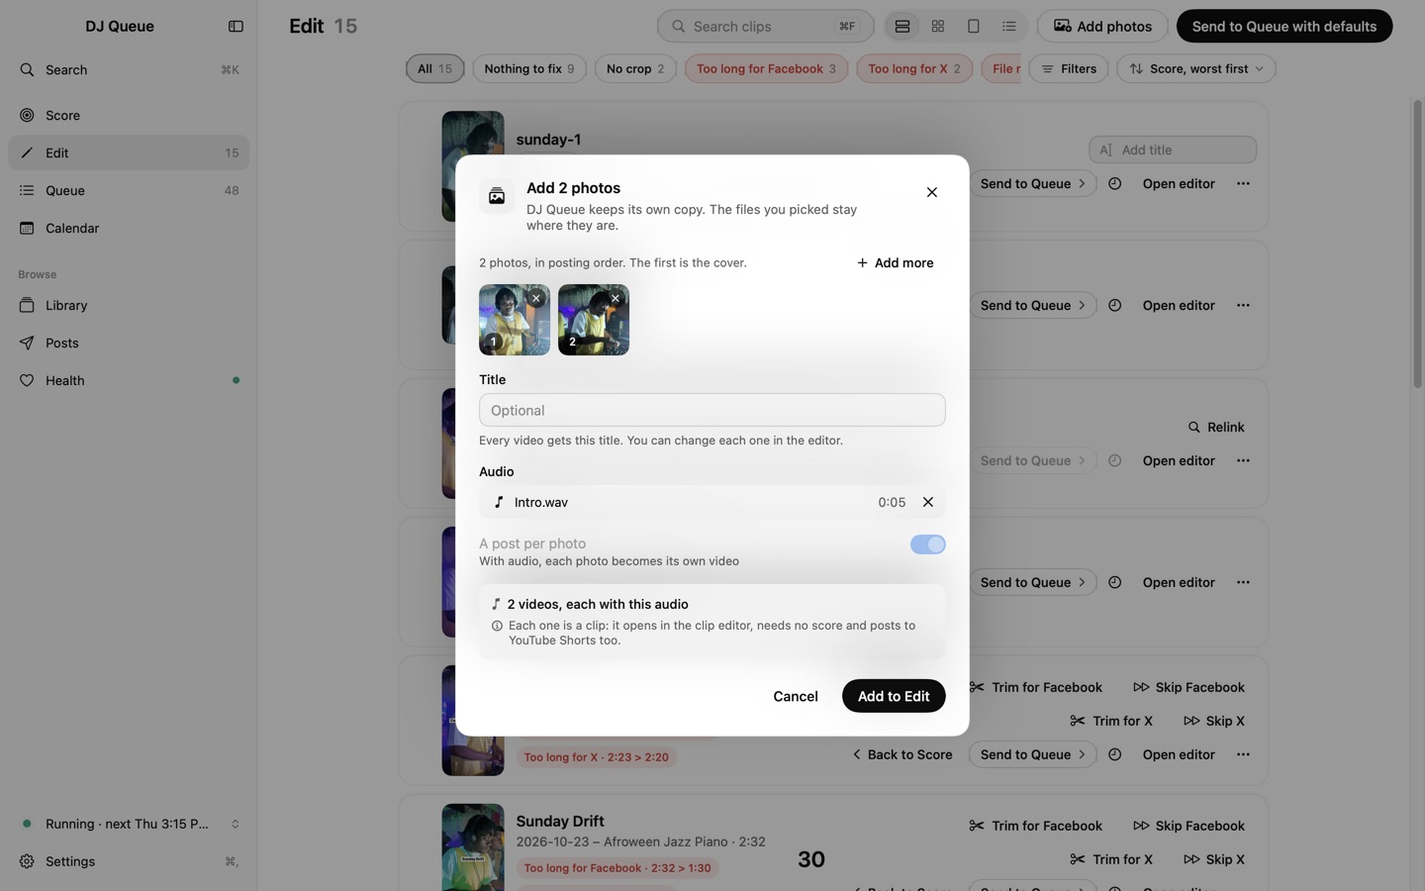
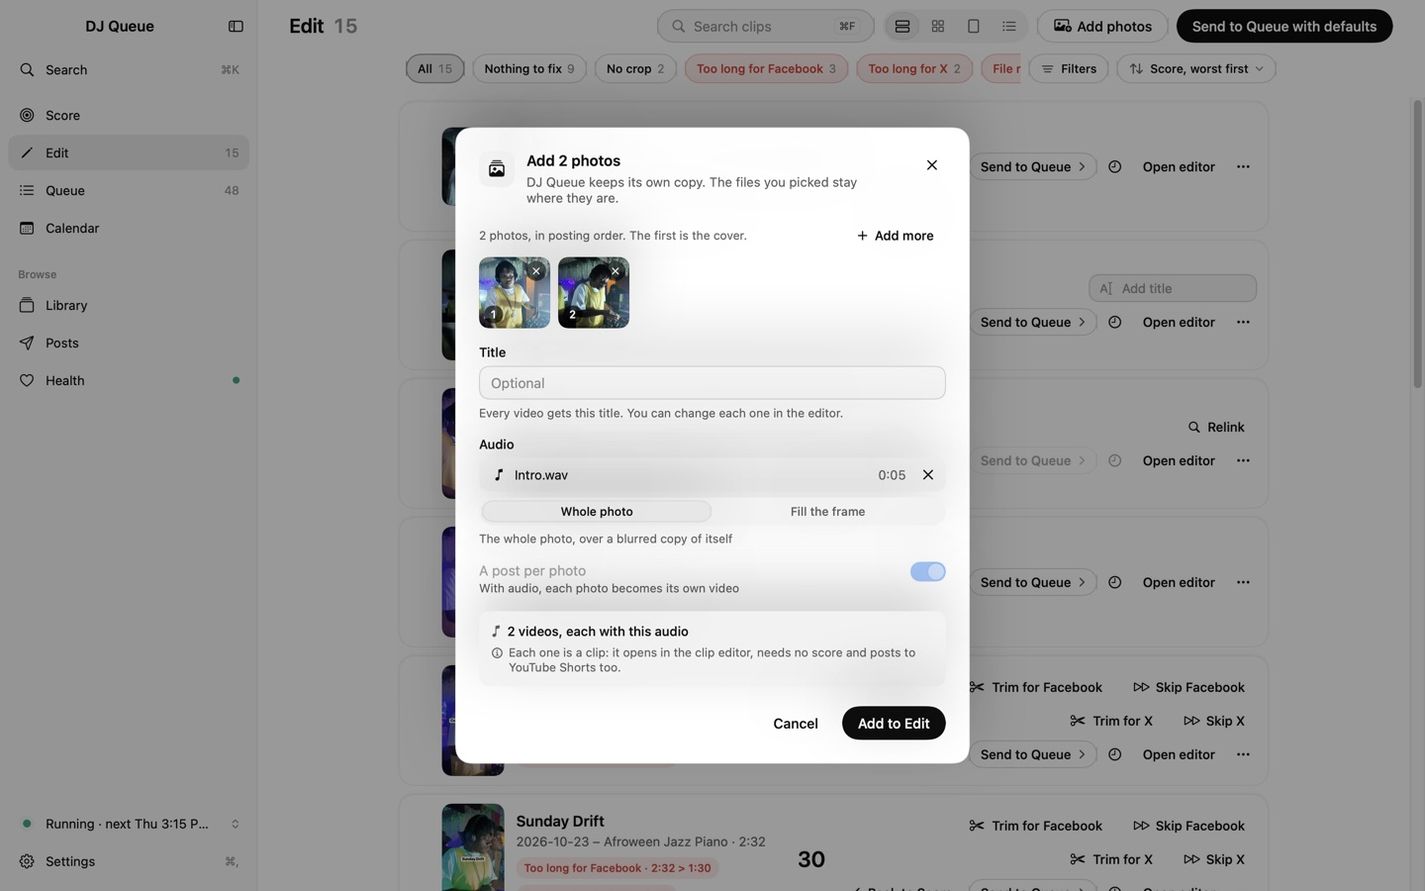
Round 23 docs, round 2: D12 and the review's changes in DECISIONS, ARCHITECTURE and the agent skill; README in version order with the fit switch and a whole-photo frame

diff --git a/ARCHITECTURE.md b/ARCHITECTURE.md
@@ -380,21 +380,32 @@ render that was replaced while its photos went up. The pure `PostizPayload.spec(
 Decisions: `DECISIONS-R23.md` (D1–D11 and "Decisions made while building"). Code: `DJQCore/StillVideo.swift`, `djq/PhotoCommand.swift`,
 `App/AppModel+PhotoAudio.swift`, `Editor/EditorAudioRow.swift`; tests `R23*.swift`; live check `photo-audio` (`Snapshot/PhotoAudioScript.swift`).
 
-**Model (schema 10).** One nullable column, `videos.still` (JSON `StillSource {photo, audio, audioName, audioDuration}`). A made video is a
+**Model (schema 10).** One nullable column, `videos.still` (JSON `StillSource {photo, audio, audioName, audioDuration, fit?}`; `fit` is
+`whole` or `fill`, and a row without it reads as `fill`). A made video is a
 `Video` with `still` set (`isStill`) and `photos` nil: `file` = `Stills/<id>/video.mp4`, `duration` = the audio's length, `start` 0, `end` =
 duration, fingerprint and size from the made file, source size = the video's pixels. It stays in the Photos session (`Session.photosId`,
 `inManifest` false), so `Store.fileURL(for:)`, renders and `Paths.owns` resolve under `Paths.photos`. `migrateToV10` follows `migrateToV9`.
 
-**Files.** `Photos/Stills/<video id>/video.mp4` and DJ Queue's copy of the audio, `audio.<ext>`. A later Change audio writes `video-2.mp4` /
-`audio-2.<ext>` beside them and nothing is ever written over or deleted, so the undo of any audio change only points the row back at files
-that are still there (the same idea as a removed photo's copy staying in Originals). The picked files are only read.
+**Files.** `Photos/Stills/<video id>/video.mp4` and DJ Queue's copy of the audio, `audio.m4a`: the AAC the video holds, never the picked file
+(the sound of an MP4 costs no more than a song). A later Change audio writes `video-2.mp4` / `audio-2.m4a` beside them, a fit change
+`video-3.mp4` only, and nothing is ever written over or deleted, so the undo of any audio change only points the row back at files that
+are still there (the same idea as a removed photo's copy staying in Originals). The picked files are only read. Leftovers of a make that
+was cut short (`work/still-*`, dot-files in `Stills/<id>/`) are swept by `checkFiles` once a day old.
+
+**Fit (D12).** `StillVideo.layout(width:height:fit:)`: `fill` is the photo's own shape (`frameSize`); `whole` is a 9:16 frame, 2160×3840 or
+smaller so the photo isn't enlarged (a multiple of 18 wide), with the photo fitted inside. The background is drawn once in the same ffmpeg
+graph, before the frame is repeated: the photo scaled to cover, cropped, `gblur` (sigma 40 at 2160 wide), darkened to 65 %, the photo
+overlaid centred. A photo within 1 % of 9:16 is made the same way for both. A `whole` video's crop is the whole frame: stored at make
+time, and `EditResolver` gives the same (confirmed) when the override is cleared, so `noCrop` is never raised and the renderer always has a
+crop. `setFit` makes the video again from the item's audio copy (`prepared(from:)`, a stream copy) and resets the crop; journal action
+`photo-audio-fit`.
 
 **Making it (`StillVideo.make`).** Three ffmpeg steps, each with a timeout: the audio's first stream to AAC 256 kbps 48 kHz stereo in the work
 folder (its measured length is the video's length, since a header's can be an estimate); the photo, upright through ImageIO, at its own
 shape inside 3840×2160 (2160×3840 for a tall or square photo, never enlarged, even pixels), as ONE keyframe interval of 30 fps H.264
 (5 s: a keyframe at quantiser 18 and 149 frames that code nothing), sRGB values through the BT.709 matrix, limited range, tagged BT.709;
 then that interval repeated under the audio with `-stream_loop` and `-c copy`, cut at the audio's end. Nothing is encoded twice, so 3
-minutes take about 3 s and 20 minutes 13 s (most of it reading the audio); a 3-minute 4K video is about 25 MB with its audio (20 minutes: about 170 MB). It is probed (codec, size,
+minutes take about 3 s and 20 minutes 13 to 40 s depending on the audio file (reading it is most of the time); a 3-minute 4K video is about 25 MB with its audio (20 minutes: about 170 MB). It is probed (codec, size,
 30 fps, audio, length within 0.05 s) before both files move into place; a failure leaves nothing. Refusals read as sentences: not there,
 a folder, not a format taken, unreadable, no sound, over 20 minutes, under a second, no ffmpeg.
 
@@ -416,19 +427,26 @@ for any length, where decoding 20 minutes of 4K took 104 s), and falls back to t
 **Add, change, remove.** Each makes its file outside any transaction, then writes the row, edit and versions in one journal entry
 (`photo-audio-add`, `-change`, `-remove`), re-checking the row first. `ClipSnap.still` (a `StillSnap`: the source and the row's media
 fields) is set only for a made video, so every other journal compares and restores as before; `restoreStill` turns the row back either
-way. `StillVideo.blocker` is D3 and D9 in one place (one photo; in Edit, no plan slot, no post); the undo of an audio batch is refused
-under a day or a post, force or not.
+way. `StillVideo.blocker` is D3 and D9 in one place (one photo; in Edit, no plan slot, no post). `stillUndoLock(restoring:current:)` refuses
+any restore that would change what the item is (photo post or video, another audio, another fit) under a day or a post, force or not,
+whatever batch it comes from.
 
 **API the UI calls.**
 - `StillVideo(store:).addAudio(to:audio:journal:progress:) -> Change{video, batchId}`: a one-photo post becomes a video in place (D2).
-- `changeAudio(videoId:audio:journal:progress:)`, `removeAudio(videoId:journal:)`: D5/D9. `blocker(_ v:) -> String?`: why not, for a control's off state.
-- `add(photos:audio:title:titleSource:progress:) -> AddResult{videos, skipped}`: the import sheet and `djq photo add --audio`; the audio is read once.
+- `changeAudio(videoId:audio:fit:journal:progress:)`, `setFit(videoId:fit:journal:progress:)`, `removeAudio(videoId:journal:)`: D9, D12.
+  `blocker(_ v:) -> String?`: why not, for a control's off state. `addAudio(…fit:)` defaults to `whole`.
+- `add(photos:audio:title:titleSource:fit:progress:) -> AddResult{videos, skipped, failed}`: the import sheet and `djq photo add --audio`; the
+  audio is read once, and it never throws once that is done (`failed`: photos worth trying again).
 - `StillVideo.audioSeconds(_:)` (throws the refusal), `refusal(audio:)`, `audioExtensions`, `label`, `addHint`, `carouselReason`, `lockedReason`.
-- `Video.isStill`, `still`, `needsNoScore`, `markLabel`; `AgentAPI.VideoSummary.still {audio_name, audio_seconds, photo}` (`media` stays "video").
+- `Video.isStill`, `still`, `needsNoScore`, `markLabel`; `AgentAPI.VideoSummary.still {audio_name, audio_seconds, photo, fit}` (`media` stays "video").
+- `StillVideo.layout`, `fitHint`, `sizeRefusal` (a photo under 200 px on its short side), `isAudioAction`.
 
 **Screens.** `AppModel+PhotoAudio.swift`: `askAddAudio` / `askChangeAudio` / `askImportAudio` open the system picker and end in `addAudio(to:audio:)`,
 `changeAudio(videoId:audio:)`, `removeAudio(videoId:)` or `importPhotos(urls:audio:title:)`, which run Core off the main thread, count up in a
 toast (`PhotoAudioUI`), journal into the app's undo history and reload an editor open on the item (`reloadOpenEditor`: it carries on as
-the clip editor, or the photo editor after Remove). `EditorAudioRow` sits under Kind in the Title section of both editors; `EditorMakingVideo`
-covers the editor while its item's video is made. Cards say "Photo + audio · 0:12" where a clip names its night. Menus: `AudioMenuItems`.
+the clip editor, or the photo editor after Remove; what it holds is dropped, not written, when the item landed as something else).
+`setAudioFit(videoId:fit:)` is the same path for the fit. `EditorAudioRow` sits under Kind in the Title section of both editors, with
+Whole photo | Fill the frame under the audio's name; `EditorMakingVideo` covers the editor while its item's video is made, the editor counts
+as covered for keys, and the item's stage controls are off (`stageBlocker`). The row's off state comes from `EditorModel.audioBlocker`,
+read with the item off the main thread; menus use `AppModel.audioBlocker`, which reads only loaded data. Cards say "Photo + audio · 0:12" where a clip names its night. Menus: `AudioMenuItems`.
 

diff --git a/README.md b/README.md
@@ -44,17 +44,19 @@ Recorded off screen from the app's own click-through checks: each frame is a rea
 | **Photos in Edit** — a Photo or Carousel mark where clips show their kind, and no score | **Preview equals export** — the editor canvas (left) beside the posted JPEG (right) |
 | ![Photo posts in the Edit list](docs/media/photos-in-edit.jpg) | ![Editor canvas beside the exported JPEG](docs/media/photo-preview-export.jpg) |
 
-**Photo with audio (v0.17.0).** Pick a photo and an audio file and DJ Queue makes a video of that photo, as long as the audio. From then on it is a clip: the clip editor (9:16 crop, trim, timed texts, cover, captions), the Queue with no score, the same loudness as every clip, and every platform a video posts to, YouTube Shorts included. Add audio from a photo post's editor or its ⋯ menu, or choose it in the import sheet and every photo becomes its own video. Change the audio or take it off again while nothing of it is scheduled; each step has Undo. The photo and the audio you picked are only read.
-
-| The Audio row — add audio and the editor carries on as the clip editor; change it or take it off again | Photos with audio in one go — each photo becomes its own video |
-|---|---|
-| ![The editor's Audio row: none, making the video, the audio's name and length, then changed and removed](docs/media/photo-audio.gif) | ![The import sheet with an audio file chosen for two photos](docs/media/photo-audio-import.jpg) |
-
 **Failed posts heal themselves (v0.16.0).** A post that fails goes back through the queue by itself until it's out: an hour later, six hours later, then the platform's next open slot each day, with freshly uploaded media and no limit on tries. YouTube's upload quota resets at midnight Pacific, so its retries go to the next YouTube slot after that. While it waits you see one calm *Retrying Thu 8:00 am* chip and nothing to do. Only what the app can't fix asks for you: a copyright or policy block, a file a platform won't take, or a channel whose Postiz sign-in broke, which is one *Reconnect* item per channel while its posts wait and then go out on their own. *Post now* on a Postiz platform now sends it through Postiz.
 
 | Retrying is a quiet chip, never a red error | One item per channel that needs signing in again |
 |---|---|
 | ![Posts list and inspector with a retrying post](docs/media/self-healing.gif) | ![Reconnect Threads in Postiz, posts wait](docs/media/self-healing-signin.jpg) |
+
+**Photo with audio (v0.17.0).** Pick a photo and an audio file and DJ Queue makes a video of that photo, as long as the audio. The whole photo shows by default, in a 9:16 video over a blurred copy of itself, so a flyer or a square photo loses nothing; Fill the frame crops it like a clip instead. From then on it is a clip: the clip editor (trim, timed texts, cover, captions), the Queue with no score, the same loudness as every clip, and every platform a video posts to, YouTube Shorts included. Add audio from a photo post's editor or its ⋯ menu, or choose it in the import sheet and every photo becomes its own video. Change the audio or take it off again while nothing of it is scheduled; each step has Undo. The photo and the audio you picked are only read.
+
+| The Audio row — add audio and the editor carries on as the clip editor; change it or take it off again | Photos with audio in one go — each photo becomes its own video |
+|---|---|
+| ![The editor's Audio row: none, making the video, the audio's name and length, then changed and removed](docs/media/photo-audio.gif) | ![The import sheet with an audio file chosen for two photos](docs/media/photo-audio-import.jpg) |
+| **Whole photo or Fill the frame** — one switch under the audio; Fill asks for the crop, Whole has nothing to fix | **The post** — the whole photo over a blurred copy of itself, with a timed text |
+| ![Switching between Whole photo and Fill the frame in the editor](docs/media/photo-audio-fit.gif) | ![A frame of the rendered post: the whole photo across the middle of a 9:16 video](docs/media/photo-audio-whole.jpg) |
 
 ## What it does
 
@@ -65,7 +67,7 @@ The app follows a clip's life — **Score → Edit → Queue → Calendar** — 
 - **Search everything** — ⌘K finds clips (by caption, overlay text, hashtags, notes and file name too), posts, weeks ("12 nov"), sessions, every setting and every action from anywhere in the app, literally and without guessing. ⌘F stays a filter for the list on screen.
 - **Keyboard-first editor** — Space plays or pauses even right after typing (a click on the picture or Esc lets go of the field), ← / → jump by a step you choose (2 s by default, ⇧ for one frame) with a try-it strip in Settings, and ↑ / ↓ move to the previous or next clip.
 - **Photo posts** — add one photo or a carousel (JPEG, PNG, HEIC, WebP, TIFF; the app keeps its own copy and never touches the original). The same editor opens in a photo mode: a shape for the post (4:5 by default), a crop per photo, the same texts and looks shown on the photos you choose, captions, templates and hashtag groups, with the canvas drawn by the code that makes the posted JPEGs. Photos need no score.
-- **Photo with audio** — one photo plus an audio file (MP3, M4A, WAV, AIFF, FLAC, or the sound of a video; up to 20 minutes) becomes a real video file in a few seconds, at the photo's own shape inside a 4K frame. It then behaves as a clip everywhere, marked "Photo + audio", needs no score, and asks for a title before it goes to YouTube. `djq photo add <photo> --audio <file>` does the same from the command line.
+- **Photo with audio** — one photo plus an audio file (MP3, M4A, WAV, AIFF, FLAC, or the sound of a video; up to 20 minutes) becomes a real video file in a few seconds: the whole photo in a 9:16 frame over a blurred copy of itself, or filling the frame with your own crop. It then behaves as a clip everywhere, marked "Photo + audio", needs no score, and asks for a title before it goes to YouTube. `djq photo add <photo> --audio <file>` does the same from the command line.
 - **Post at a set time** — an exact day and minute for any Queue item, on every platform at once, outside the posts-per-day plan. It never takes a regular place, nothing else moves for it, and the scheduler never shifts it.
 - **Vertical editor** — crop a 4K 16:9 frame to 9:16, trim starting on my original markers (with grace to extend), overlay text (up to 12 timed texts like CapCut, each with its own start, end, font and colours, tucked behind a collapsed Advanced row), captions with per-platform limits, a cover frame, versions for reposts (each one marked *Ready to repost* when it's done), multi-platform safe zones and realistic phone previews of each platform's UI with the real caption and handle.
 - **No intelligence in the app, by design** — the app is a UI over scripts. Song names and titles come from metadata my agents write (`title_suggestions` in the manifest) and show up as chips; when a name is ambiguous, *Ask an agent* copies a ready-made prompt. Outside agents read and change everything through the `djq` CLI (JSON in/out), documented as a Claude skill.

diff --git a/DECISIONS-R23.md b/DECISIONS-R23.md
@@ -70,6 +70,16 @@ that reads as a name; a camera file name doesn't.
 name and length). Schema 10, additive and lossless. *Why:* the database stays the one source of truth, and Remove
 audio needs the original photo back.
 
+**D12. A made video shows the whole photo by default; "Fill the frame" crops instead.** (Added after the first
+build: a clip is always cropped to 9:16, so a flyer or a 4:5 or square photo lost up to half its width.) Stored as
+`still.fit`, `whole` or `fill`; a video made before this reads as `fill`. *Whole photo:* a 9:16 video (2160×3840, or
+smaller so the photo is never enlarged) with the photo fitted inside, centred, over a blurred, darkened copy of itself;
+its crop is the whole frame and needs no confirming. *Fill the frame:* the video has the photo's own shape and Eric
+picks the 9:16 crop. The choice is one control under the audio's name in the editor, in the import sheet once audio is
+picked, and `--fit` in `djq`. Changing it makes the video again from DJ Queue's own audio copy (same rules as Change
+audio, with Undo) and resets the crop; trim, texts, cover and captions stay. *Why:* Eric said "just the image is like
+the video".
+
 ## Not in this round
 
 - Slideshows (several photos in one video) and transitions.
@@ -84,7 +94,7 @@ audio needs the original photo back.
 - **A keyframe every 5 seconds.** *Why:* an exact frame anywhere decodes in under half a second, and the size above stays small.
 - **A photo is never enlarged.** A photo smaller than the 4K frame keeps its pixels (even dimensions). *Why:* enlarging adds bytes and time and no detail; the renderer scales the crop either way.
 - **Colours: the photo's sRGB values through the BT.709 matrix, tagged BT.709 limited range.** Measured within 1 of 255 against the photo (test tolerance 6). *Why:* that is how the renderer already treats text overlays, and every render carries the same tags as a clip's.
-- **The audio is encoded once, first, and its measured length is the video's length.** *Why:* an MP3 header's length can be an estimate; the video must end with the sound. In the import sheet the same encoded audio goes under every photo.
+- **The audio is encoded once, first, and its measured length is the video's length.** *Why:* an MP3 header's length can be an estimate; the video must end with the sound. In the import sheet the same encoded audio goes under every photo. How long that takes depends on the file: a 20-minute tone took 13 s here and the reviewer's 20-minute MP3 39 s, both far inside the 4-minute budget.
 - **Files are never written over: Change audio writes `video-2.mp4` beside `video.mp4`.** *Why:* the undo of Add, Change and Remove then only points the row back, with nothing to re-make inside a database transaction. Old files stay on disk (a 3-minute one is about 25 MB); cleaning them up is a follow-up.
 - **The proxy of a made video is one frame and the audio copied.** The clip's way decoded all of it: 104 s on every core for 20 minutes, close to the 120 s limit. *Why:* previews in the lists should not cost more than making the video did. It falls back to the clip's way if it fails.
 - **`photoLabel` still means "a photo post"; `markLabel` and `kindLabel` say "Photo + audio".** *Why:* eleven places in the screens read `photoLabel` as "this is a photo post" (a photo card, the Calendar's photo mark), and a made video must not be one of them.
@@ -102,3 +112,16 @@ audio needs the original photo back.
 - **One existing test line changed:** `R21FoundationTests.schema8DatabaseGainsTheColumnsAndKeepsEveryRow` asserted `Store.schemaVersion == 9`; it now asserts `>= 9`. *Why:* this round moves the schema to 10.
 
 - **The README GIF shows the top of the inspector, not the whole editor.** *Why:* the Mac locked itself during the build, and a capture taken then draws the player black; the Audio row is what changed. A full-window GIF is one `scripts/readme-media.sh` line away once the checks run on an unlocked Mac.
+
+### After the independent review (round 2)
+
+- **B1. The lock is about what a restore would do, not what the batch is called.** A forced undo of any older batch (a title change, an Edits entry) carries the item's old media in its snapshot; it is now refused, force or not, when it would change what a scheduled or posted item is (photo post or video, which audio, which fit). *Why:* a photo would have gone out where a video was scheduled.
+- **S2. DJ Queue's audio copy is the AAC the video holds (`audio.m4a`), never the picked file.** *Why:* "the sound of an MP4" copied the whole video, once per photo. The copy is now read: a fit change makes the video again from it with a stream copy.
+- **S3. While its video is made, an item's editor is covered for keys too, its stage controls and clock are off, and what the editor holds is written before the make and dropped (not flushed) when the item lands as something else.** *Why:* a change typed in the last moments was written onto the converted item.
+- **S4. After the undo of an audio batch the open editor reloads from the batch and from what it holds.** *Why:* it used to compare with the model's list, which had already caught up in some runs and not in others.
+- **S1. Photos picked while videos are being made are added when they are done.** *Why:* the toast promised it.
+- **N1** a failed make removes only a folder it made and left empty. **N2** Remove audio checks again inside its transaction. **N3** Edit's bulk bar treats videos made from photos as the ⋯ menu does. **N4** the D10 sentence is now "Add a title: YouTube needs a name for this video" (it would not have been named after the file: the title would have been empty). **N5** the Audio row reads a blocker cached with the item. **N6** leftovers of a make that was cut short are swept once a day old (`work/still-*`, dot-files in `Photos/Stills/<id>/`). **N8** a photo under 200 px on its short side is refused, in words. **N9** Change audio fits text windows to the new length: one that starts past it shows for the whole clip, one that ends past it runs to the end. **N10** a photo whose import fails stays in the sheet to try again; the ones that were made don't. **N11** README order.
+- **`whole` is decided by the resolver as well as stored.** A whole-photo video whose crop override is cleared (Reset to defaults) still resolves to the whole frame, confirmed. *Why:* "Confirm the crop" must never come back for it.
+- **A photo within 1 % of 9:16 is made the same way for both fits** (its own shape, no background). *Why:* there is nothing to show behind it, and the whole frame is a valid 9:16 crop.
+- **The whole-photo frame is a multiple of 18 pixels wide.** *Why:* that is exactly 9:16 with even sides, at any size down from 2160×3840.
+

diff --git a/skills/dj-queue-agent/SKILL.md b/skills/dj-queue-agent/SKILL.md
@@ -58,8 +58,8 @@ Queue" until it's sent to the Queue again.
 Round 21: every item also has `media` (`"video"` or `"photo"`) and `photos[{id, file, width, height}]` (empty for a
 video; posting order, the first is the cover). See "Photo posts" below.
 
-Round 23: a video DJ Queue made from one photo and an audio file has `still {audio_name, audio_seconds, photo{id, file,
-width, height}}` and `media: "video"`; the key is absent on everything else. See "Photo with audio" below.
+Round 23: a video DJ Queue made from one photo and an audio file has `still {audio_name, audio_seconds, fit, photo{id,
+file, width, height}}` and `media: "video"`; the key is absent on everything else. See "Photo with audio" below.
 
 `video` adds: `title_tracks, title_suggestions[{id,text,tracks,confidence,source,origin}]`, `text_suggestions` (same
 shape, for the text on the video), `edit` (stored overrides
@@ -198,18 +198,23 @@ One photo plus an audio file becomes a video (the photo held for the length of t
 clip: `media: "video"`, a `duration`, `still{…}`, the clip editor, per-platform trims, YouTube Shorts included.
 
 ```bash
-djq photo add <photo>… --audio <file> [--title "<title>"] [--json]   # a video per photo, each with this audio
-djq photo audio <id> <file> [--json]    # add audio to a photo post with ONE photo (same id), or change a made video's audio
-djq photo audio <id> --remove [--json]  # take the audio off: a photo post again
+djq photo add <photo>… --audio <file> [--fit whole|fill] [--title "<title>"] [--json]   # a video per photo, each with this audio
+djq photo audio <id> <file> [--fit whole|fill] [--json]   # add audio to a photo post with ONE photo (same id), or change a made video's audio
+djq photo audio <id> --fit whole|fill [--json]            # only how the photo sits in the video (made again from its own audio)
+djq photo audio <id> --remove [--json]                    # take the audio off: a photo post again
 ```
 
 - Audio: MP3, M4A/AAC, WAV, AIFF, FLAC, CAF, or the sound of an MP4/MOV; 1 second to 20 minutes. Both files are only
-  read; DJ Queue keeps its own copies in `Photos/Stills/<id>/`. Making a video takes a few seconds.
+  read; DJ Queue keeps its own copies in `Photos/Stills/<id>/` (the audio as AAC). Making a video takes a few seconds.
+  A photo under 200 px on its short side is refused.
+- `fit` (`still.fit`): `whole` (the default) shows the whole photo in a 9:16 video over a blurred copy of itself; its
+  crop is the whole frame, so there is no "No crop". `fill` makes the video at the photo's shape and Eric picks the
+  9:16 crop in the editor ("No crop" until then). Don't change the fit unless Eric asks; a change resets the crop.
 - Adding audio keeps the id, title, caption, hashtag groups and texts. The photo's crop, its shape and "shows on photos"
-  ranges go (it is 9:16 with no confirmed crop, and each text shows for the whole clip until timed), and YouTube is no
-  longer forced off. A carousel is refused ("Audio goes on a post with one photo").
+  ranges go (it is 9:16, and each text shows for the whole clip until timed), and YouTube is no longer forced off. A carousel is refused ("Audio goes on a post with one photo").
 - `photo audio` works only while the item is in Edit with no day and no post ("Send it back to Edit first"). Each
-  change is one batch: `djq bulk undo <batch>`.
+  change is one batch: `djq bulk undo <batch>`. No undo, forced or not, changes what a scheduled or posted item is
+  (photo post or video, which audio, which fit).
 - It needs no score, starts with no text, `{set}` and `{tag}` are empty, and `needs_title_help` is false: don't look up
   a song for it. With YouTube on and nothing to name it (no Title, no text on it, no typed YouTube title) it has the
   reason "No title" and stays in Edit: ask Eric for the title.
